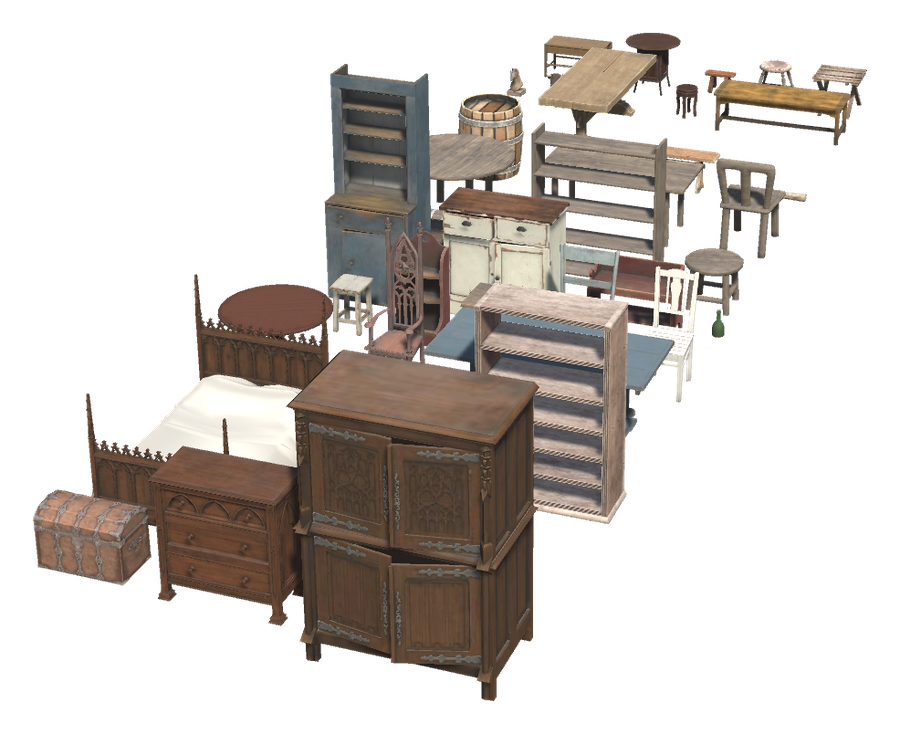
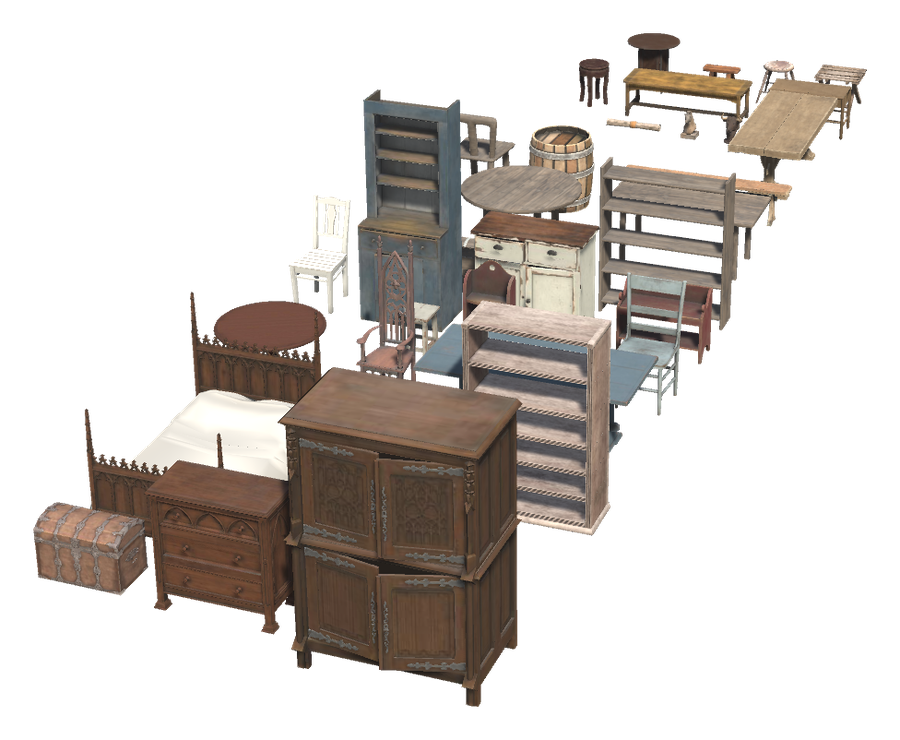
Docs: decor galleries and the svalgang rendered again
The decor galleries at the new sizes, with the brass candleholders' flames
gone; the ship stems, now 3 m, go to a gallery of their own for large pieces
(decor_norse_trees). The svalgang, its corner and entrance, the stave hall and
Borgund at the 2 m deep gallery.

Changed region(s): [[0.0311, 0.03, 0.9644, 0.9591], [0.1867, 0.5395, 0.2178, 0.5695]]

diff --git a/docs/decor.md b/docs/decor.md
@@ -397,6 +397,8 @@ Runestones, graves, a dolmen, stocks, skulls, swords and shields, fuling totems,
 
 <img src="images/decor_norse.png" alt="Norse" title="Norse" height="260">
 
+<img src="images/decor_norse_trees.png" alt="Norse" title="Norse" height="260">
+
 | Decoration | Description | Requirements | Notes |
 |------------|-------------|--------------|-------|
 | **Runestone** | A standing stone carved with runes. | Stone ×10 | Valheim's own look, also small and large |
